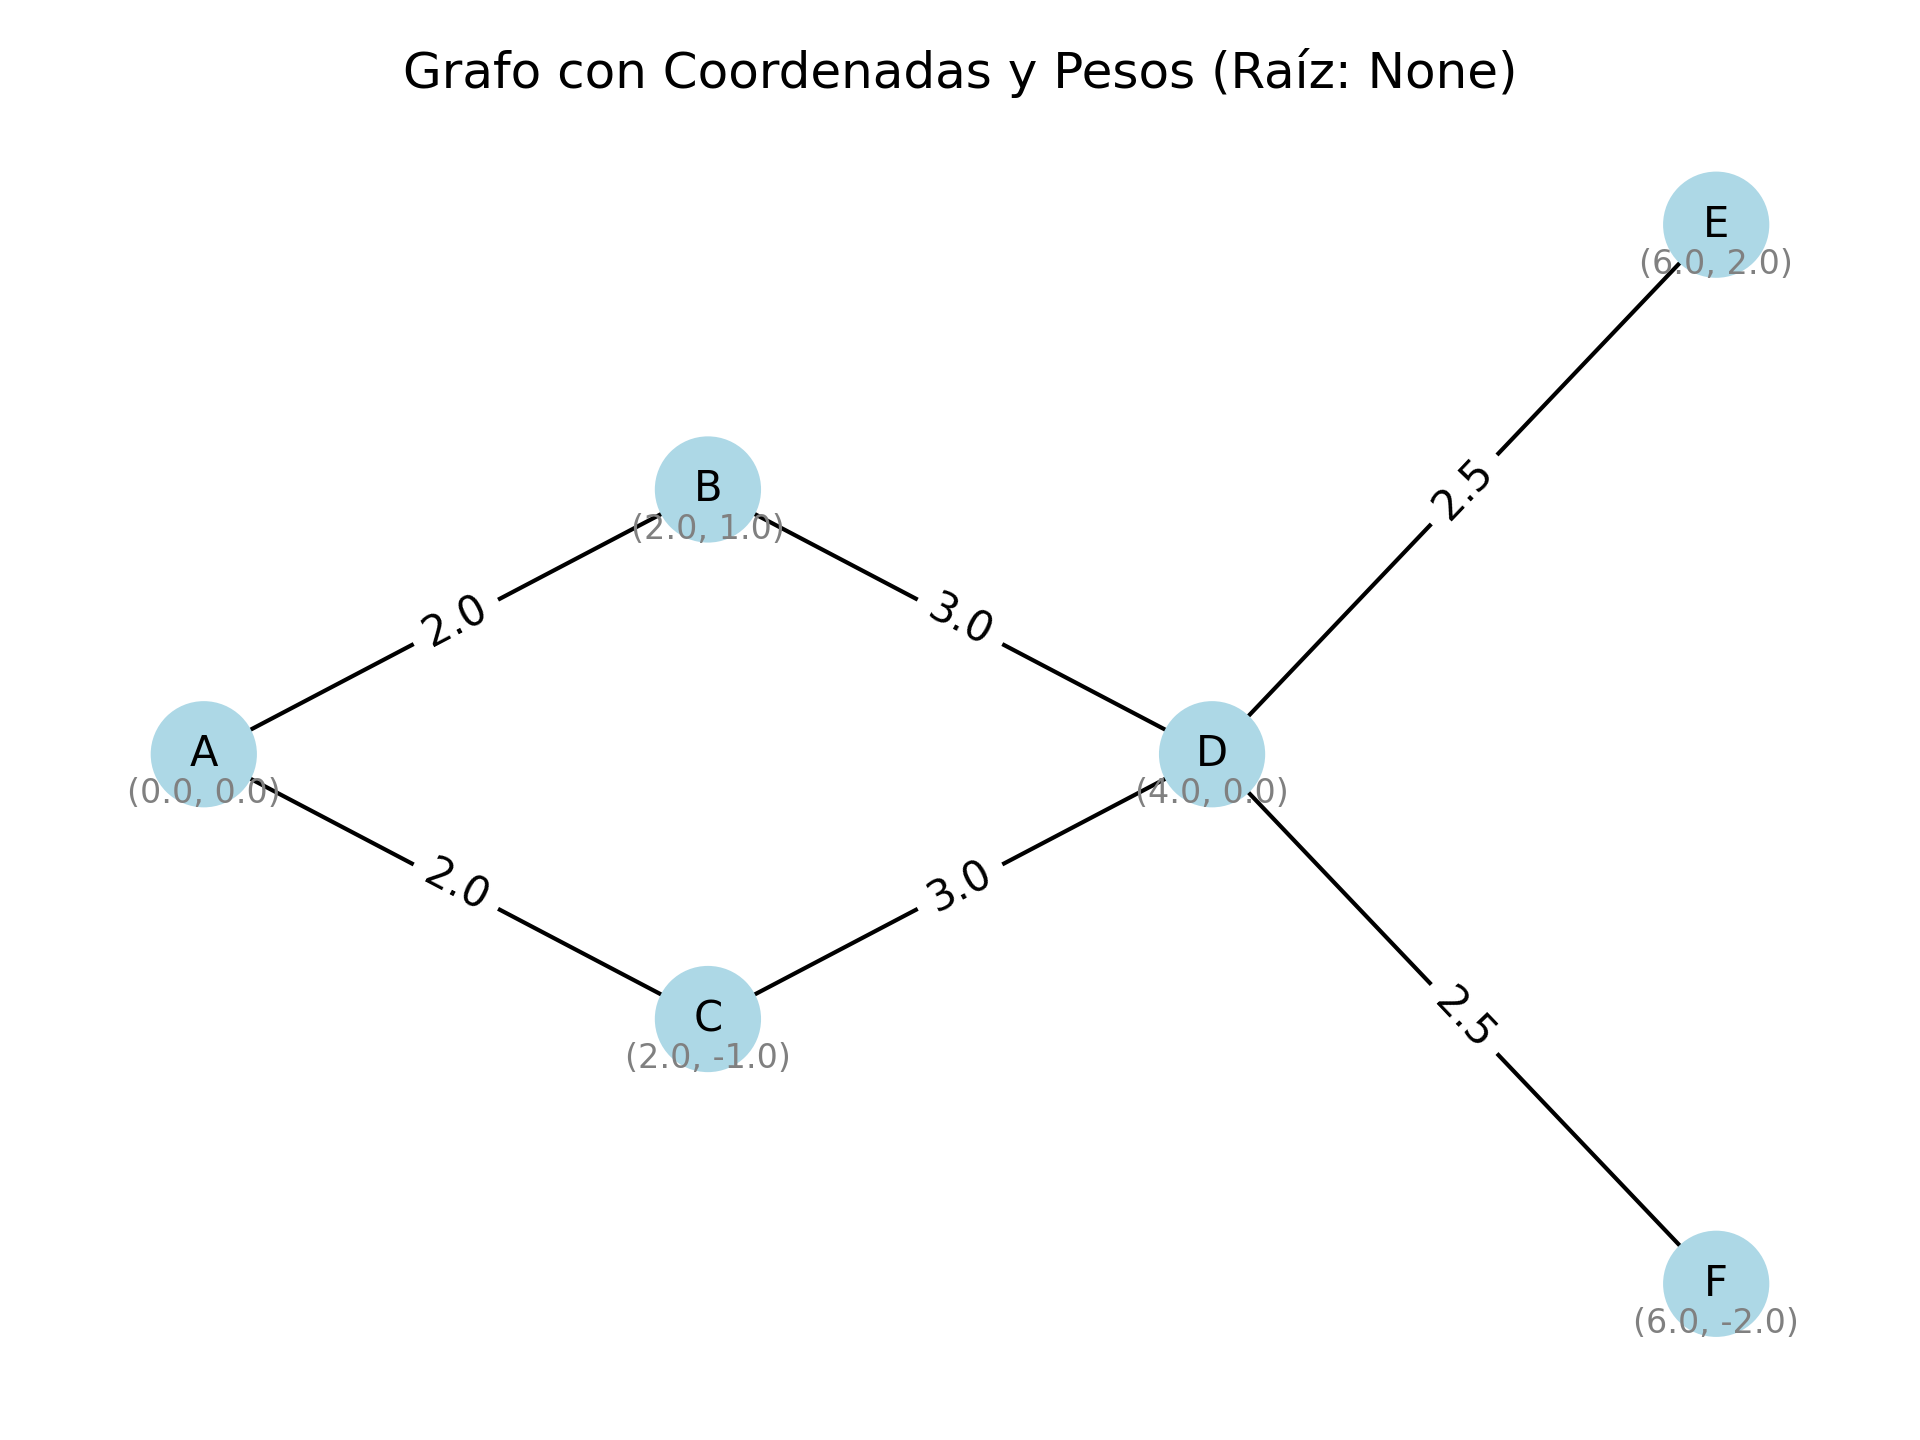
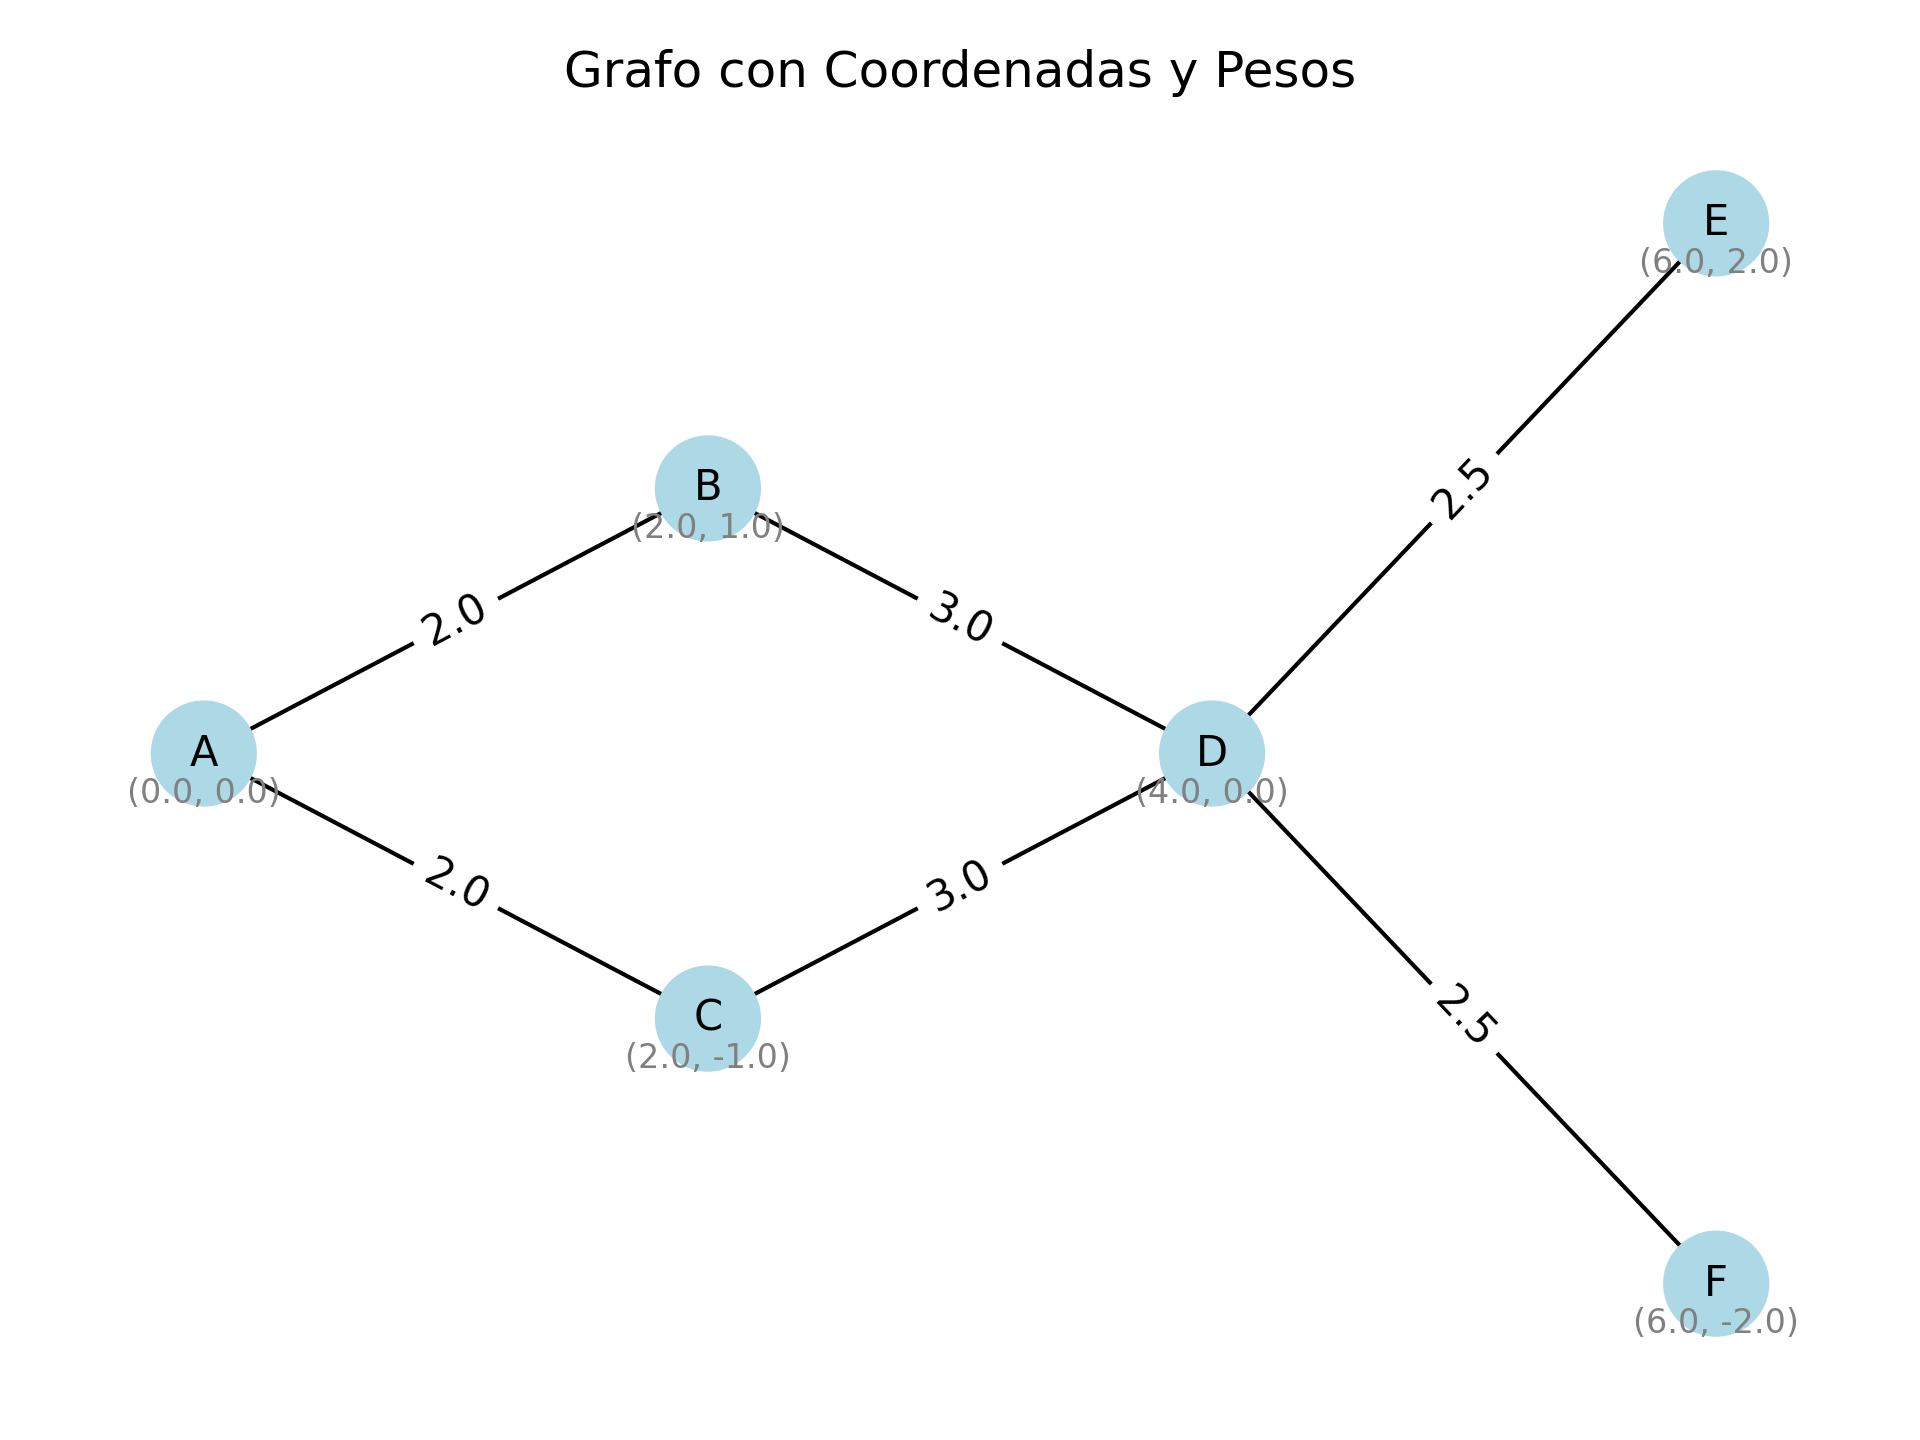
pide la raiz

diff --git a/avara.py b/avara.py
@@ -27,122 +27,98 @@ def limpiar_pantalla():
 
 def leer_grafo_desde_archivo(ruta):
     """
-    Lee un archivo de texto con tres posibles secciones:
-    1) ROOT: NodoRaiz
-    2) NODE_COORDS: (opcional)
+    Lee un archivo de texto con dos posibles secciones:
+    1) NODE_COORDS: (opcional)
        Nodo: (x, y)
-    3) EDGES:
+    2) EDGES:
        - Con peso: NodoA-NodoB: peso
        - Sin peso: NodoA-NodoB
 
     Devuelve:
     - grafo: dict nodo -> lista de (vecino, peso)
     - coords: dict nodo -> (x, y)
-    - root: nodo raíz
     """
     grafo, coords = {}, {}
-    root, seccion = None, None
+    seccion = None
 
     with open(ruta, 'r') as archivo:
         for linea in archivo:
             linea = linea.strip()
-            if not linea or linea.startswith('#'): continue
-
-            if linea.upper().startswith('ROOT:'):
-                root = linea.split(':',1)[1].strip()
+            if not linea or linea.startswith('#'): 
                 continue
+
             encabezado = linea.rstrip(':').upper()
-            if encabezado == 'NODE_COORDS': seccion = 'coords'; continue
-            if encabezado == 'EDGES': seccion = 'edges'; continue
+            if encabezado == 'NODE_COORDS':
+                seccion = 'coords'
+                continue
+            if encabezado == 'EDGES':
+                seccion = 'edges'
+                continue
 
             if seccion == 'coords':
-                nodo, tup = linea.split(':',1)
-                x,y = tup.strip().lstrip('(').rstrip(')').split(',')
+                nodo, tup = linea.split(':', 1)
+                x, y = tup.strip().lstrip('(').rstrip(')').split(',')
                 coords[nodo.strip()] = (float(x), float(y))
             elif seccion == 'edges':
                 if ':' in linea:
-                    arista, peso = linea.split(':',1)
+                    arista, peso = linea.split(':', 1)
                     w = float(peso)
                 else:
                     arista, w = linea, 1.0
-                a,b = [n.strip() for n in arista.split('-')]
-                grafo.setdefault(a,[]).append((b,w))
-                grafo.setdefault(b,[]).append((a,w))
-
-    if root is None:
-        raise ValueError("Debe especificar ROOT: <Nodo>")
-    return grafo, coords, root
+                a, b = [n.strip() for n in arista.split('-')]
+                grafo.setdefault(a, []).append((b, w))
+                grafo.setdefault(b, []).append((a, w))
+    return grafo, coords
 
 
-def graficar_grafo(grafo, coords=None, root=None, meta=None):
-
-    """
-    Dibuja el grafo con:
-    - Nodo raíz resaltado.
-    - Pesos si existen.
-    - Coordenadas si existen (mostradas debajo del nodo).
-    """
-
+def graficar_grafo(grafo, coords=None, root=None, meta=None, salida="grafo_inicial.png"):
     G = nx.Graph()
     for u, vecinos in grafo.items():
         for v, w in vecinos:
             if not G.has_edge(u, v):
                 G.add_edge(u, v, weight=w)
 
-    # Usar coordenadas si existen, si no usar spring layout
     pos = coords if coords else nx.spring_layout(G)
-
     plt.clf()
-    colors = []
+
+    # Nodo root y meta
+    node_colors = []
     for n in G.nodes():
         if n == root:
-            colors.append('red')
+            node_colors.append('red')
         elif n == meta:
-            colors.append('green')
+            node_colors.append('green')
         else:
-            colors.append('lightblue')
+            node_colors.append('lightblue')
 
-    nx.draw_networkx_nodes(G, pos, node_color=colors, node_size=600)
-
-    # Mostrar solo nombre del nodo en su centro
+    nx.draw_networkx_nodes(G, pos, node_color=node_colors, node_size=600)
     nx.draw_networkx_labels(G, pos, font_size=10)
 
-    # Mostrar coordenadas debajo del nodo
     if coords:
-        offset = 0.15  # separación vertical hacia abajo
-        coord_labels = {
-            n: f"({x:.1f}, {y:.1f})"
-            for n, (x, y) in coords.items()
-        }
-        pos_coords = {
-            n: (x, y - offset)
-            for n, (x, y) in pos.items()
-        }
+        offset = 0.15
+        coord_labels = {n: f"({x:.1f}, {y:.1f})" for n, (x, y) in coords.items()}
+        pos_coords = {n: (x, y - offset) for n, (x, y) in pos.items()}
         nx.draw_networkx_labels(G, pos_coords, labels=coord_labels, font_size=8, font_color='gray')
 
-    # Dibujar aristas y pesos si los hay
     nx.draw_networkx_edges(G, pos)
     peso = nx.get_edge_attributes(G, 'weight')
     if any(w != 1.0 for w in peso.values()):
         nx.draw_networkx_edge_labels(G, pos, edge_labels=peso)
 
-    # Título dinámico
     title = "Grafo"
     if coords:
         title += " con Coordenadas"
     if any(w != 1.0 for w in peso.values()):
         title += " y Pesos"
-    title += f" (Raíz: {root})"
+    if root:
+        title += f" (Raíz: {root})"
 
     plt.title(title)
     plt.axis('off')
     plt.tight_layout()
-    #plt.show()
-    
-    # Guardar en archivo
-    plt.savefig("grafo_Inicial.png", format='png', dpi=300)
+    plt.savefig(salida, format='png', dpi=300)
     plt.close()
-
+    
 def graficar_grafo_con_ruta(grafo, camino, coords=None, root=None, meta=None):
     """
     Dibuja el grafo y resalta la ruta encontrada.
@@ -238,44 +214,64 @@ def busquedaAmplitud(grafo, inicio, meta):
 
 
 
+
 def dfs_limitado(grafo, nodo_actual, objetivo, profundidad_max, visitados=None, camino=None, padres=None):
     """
-    DFS limitada para IDDFS.
+    DFS limitada para IDDFS, retorna camino, padres y costo (# aristas).
     """
     if padres is None:
         padres = {}
-
     if visitados is None:
         visitados = set()
     if camino is None:
         camino = []
+
+    # Marcamos y agregamos al camino
     visitados.add(nodo_actual)
     camino.append(nodo_actual)
+
+    # Verificar objetivo
     if nodo_actual == objetivo:
-        return list(camino), padres
+        costo = len(camino) - 1
+        return list(camino), padres, costo
+
+    # Si alcanzamos profundidad máxima
     if profundidad_max <= 0:
         camino.pop()
         visitados.remove(nodo_actual)
-        return None, padres
-    for vecino,_ in grafo.get(nodo_actual, []):
+        return None, padres, None
+
+    # Explorar vecinos
+    for vecino, _ in grafo.get(nodo_actual, []):
         if vecino not in visitados:
             padres[vecino] = nodo_actual
-            resultado, padres = dfs_limitado(grafo, vecino, objetivo, profundidad_max-1, visitados, camino, padres)
+            resultado, padres, costo = dfs_limitado(
+                grafo, vecino, objetivo, profundidad_max - 1,
+                visitados, camino, padres
+            )
             if resultado:
-                return resultado, padres
+                return resultado, padres, costo
+
+    # Backtrack
     camino.pop()
     visitados.remove(nodo_actual)
-    return None, padres
+    return None, padres, None
 
 
 def busquedaProfundidadIterativa(grafo, inicio, meta, maxima_profundidad=10):
-    """Búsqueda por profundización iterativa (IDDFS)."""
-    for limite in range(maxima_profundidad+1):
+    """Búsqueda por profundización iterativa (IDDFS).
+    Retorna camino, costo (# aristas) y padres, o (None, None, {}) si no se encuentra."""
+    for limite in range(maxima_profundidad + 1):
         print(f"Intentando IDDFS con límite={limite}")
-        resultado, padres = dfs_limitado(grafo, inicio, meta, limite)
+        resultado, padres, costo = dfs_limitado(
+            grafo, inicio, meta, limite
+        )
         if resultado:
-            return resultado, padres
-    return None, {}
+            print(f"Meta encontrada con costo {costo}")
+            return resultado, costo, padres
+    print("No se encontró la meta dentro del límite dado.")
+    return None, None, {}
+
 
 
 def busquedaAvara(grafo, coords, inicio, meta):
@@ -449,8 +445,8 @@ def menu():
         return
 
     # Leer grafo desde el archivo seleccionado
-    grafo, coords, root = leer_grafo_desde_archivo(archivo_seleccionado)
-
+    grafo, coords= leer_grafo_desde_archivo(archivo_seleccionado)
+    root = input("Nodo raíz: ")
     graficar_grafo(grafo, coords)
 
     print(f"\n{BOLD}{CYAN}=== MENÚ DE BÚSQUEDAS ==={RESET}")
@@ -478,8 +474,8 @@ def menu():
         if not validar_para("IDDFS", grafo, coords, meta):
             return menu()
         profundidad = int(input("Profundidad máxima [10]: ") or 10)
-        camino, padres = busquedaProfundidadIterativa(grafo, root, meta, profundidad)
-
+        camino, padres, costo = busquedaProfundidadIterativa(grafo, root, meta, profundidad)
+        costo= len(costo)-2
     elif opcion == '3':
         meta = input("Nodo meta: ")
         if not validar_para("Ávara", grafo, coords, meta):
